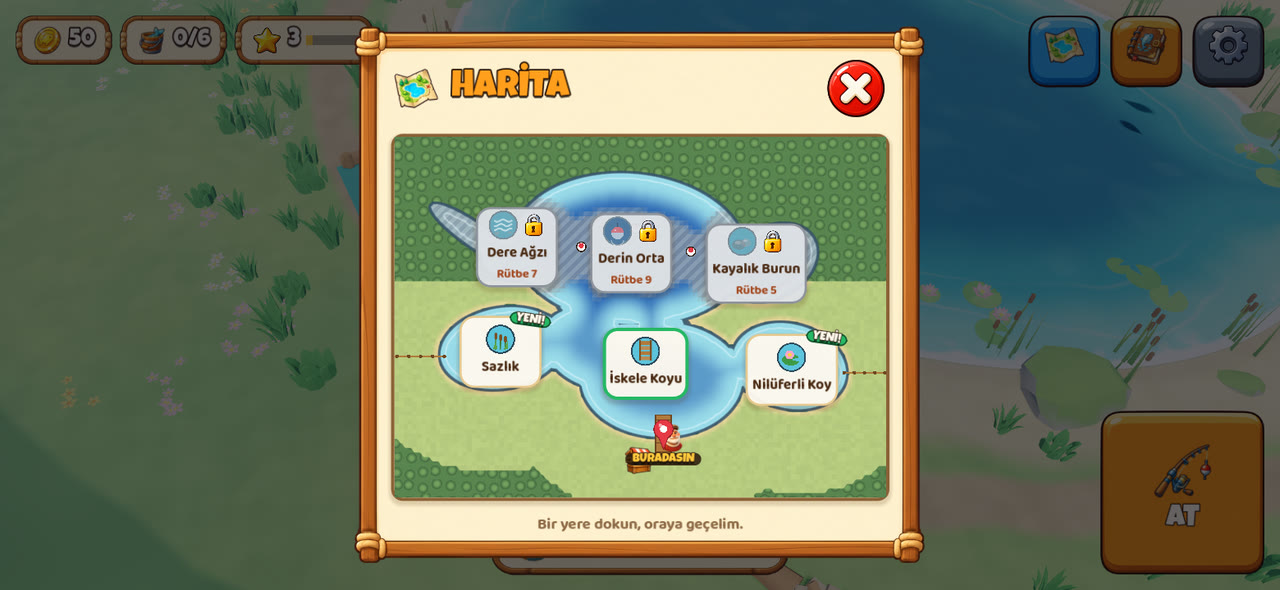
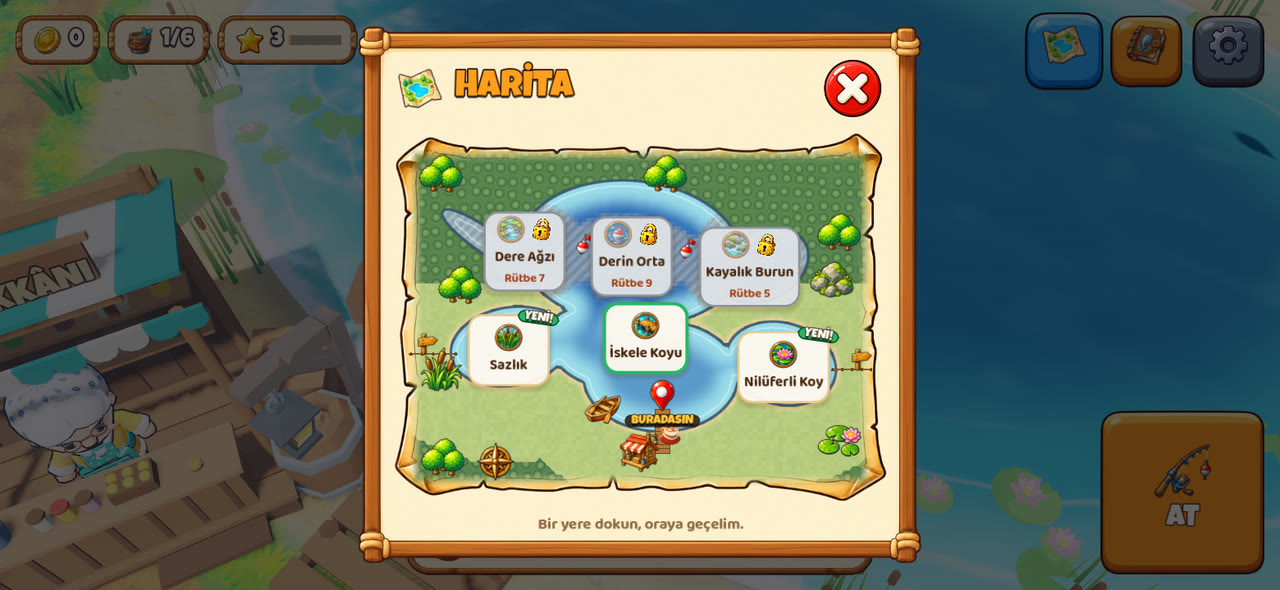
README görüntüleri Ersin'in Parti 3 görselleriyle
- Yeni zemin dokuları, bölge rozetleri, parşömen harita ve çıkartmalarıyla
  on bir görüntü yeniden çekildi (map ve video botları).
- Durum satırına Parti 3; harita görüntüsünün açıklaması.

Claude-Session: https://claude.ai/code/session_01V8Ty9xVE3n1qqdFai2Pwte

diff --git a/README.md b/README.md
@@ -2,13 +2,13 @@
 
 **"Kıyını süsle, havayı bekle: bu gece oltana ne takılacak?"** Her yaşa hitap eden, rahat bir 3D mobil balıkçılık oyunu (iOS + Android, yatay ekran). Kendi balıkçınla yazı Dede'nin göl köyünde geçiriyorsun. Suda balık gölgeleri dolaşıyor; gölgenin önüne atıyorsun, gölge yaklaşıp dürtüyor, ısırınca VUR ve çek. Ersin'in Kazı'dan sonraki oyunu; kodu Claude yazıyor.
 
-> **Durum (Ekim 2026): v0.3 (H2 "Büyük Göl", Dalga 2 bitti).** Göl büyüdü: altı bölge (iskele koyu, sazlık, nilüferli koy, kayalık burun, dere ağzı, derin orta), her birinin kendi balıkları ve süsleri. Bölgeler rütbeyle açılır; haritadan hızlı geçilir, koyların çevresinden kıyı yolu dolaşır. Nine'den alınan sandalla derin ortaya açılınır. 7 yeni tür (toplam 12): gümüş balığı, çapak, tatlısu kefali, kadife, sudak, altın sazan ve koruma altındaki mersin (kartıyla göle bırakılır). Su ve zemin yenilendi; telefonda hız ölçümü ayarlarda. Sırada Dalga 3: teknikler ([yol haritası](docs/yol-haritasi.md)).
+> **Durum (Ekim 2026): v0.3 (H2 "Büyük Göl", Dalga 2 bitti).** Göl büyüdü: altı bölge (iskele koyu, sazlık, nilüferli koy, kayalık burun, dere ağzı, derin orta), her birinin kendi balıkları ve süsleri. Bölgeler rütbeyle açılır; haritadan hızlı geçilir, koyların çevresinden kıyı yolu dolaşır. Nine'den alınan sandalla derin ortaya açılınır. 7 yeni tür (toplam 12): gümüş balığı, çapak, tatlısu kefali, kadife, sudak, altın sazan ve koruma altındaki mersin (kartıyla göle bırakılır). Su ve zemin yenilendi; zemin, bölge rozetleri ve parşömen harita Ersin'in görselleriyle (Parti 3). Telefonda hız ölçümü ayarlarda. Sırada Dalga 3: teknikler ([yol haritası](docs/yol-haritasi.md)).
 
 ![İskele koyu: balıkçı, Dede, Nine'nin dükkânı ve bağlı sandal; kıyı yolu gölü dolaşıyor](docs/ekran/01_iskele.jpg)
 
 | | |
 |---|---|
-| ![Harita: altı bölge, kilitler, Yeni!, Buradasın](docs/ekran/02_harita.jpg) | ![Rütbe 3: nilüferli koy açıldı, Dede haritayı gösteriyor](docs/ekran/03_bolge_acildi.jpg) |
+| ![Harita: parşömen kâğıt ve çıkartmalar, bölge rozetleri, kilitler ve çit tabelaları, Buradasın](docs/ekran/02_harita.jpg) | ![Rütbe 3: nilüferli koy açıldı, Dede haritayı gösteriyor](docs/ekran/03_bolge_acildi.jpg) |
 | ![Sazlık: sık kamışlar](docs/ekran/04_sazlik.jpg) | ![Nilüferli koy: Destansı altın sazanın mor ışıltılı gölgesi](docs/ekran/05_nilufer.jpg) |
 | ![Kayalık burun: iri kayalar ve yosunlu taş](docs/ekran/06_kayalik.jpg) | ![Dere ağzı: akıntı çizgileri](docs/ekran/07_dere.jpg) |
 | ![Sandalla derin orta: Efsanevi mersinin gölgesi](docs/ekran/08_sandal.jpg) | ![Mersin koruma altında: kartında Göle bırak](docs/ekran/09_mersin.jpg) |
